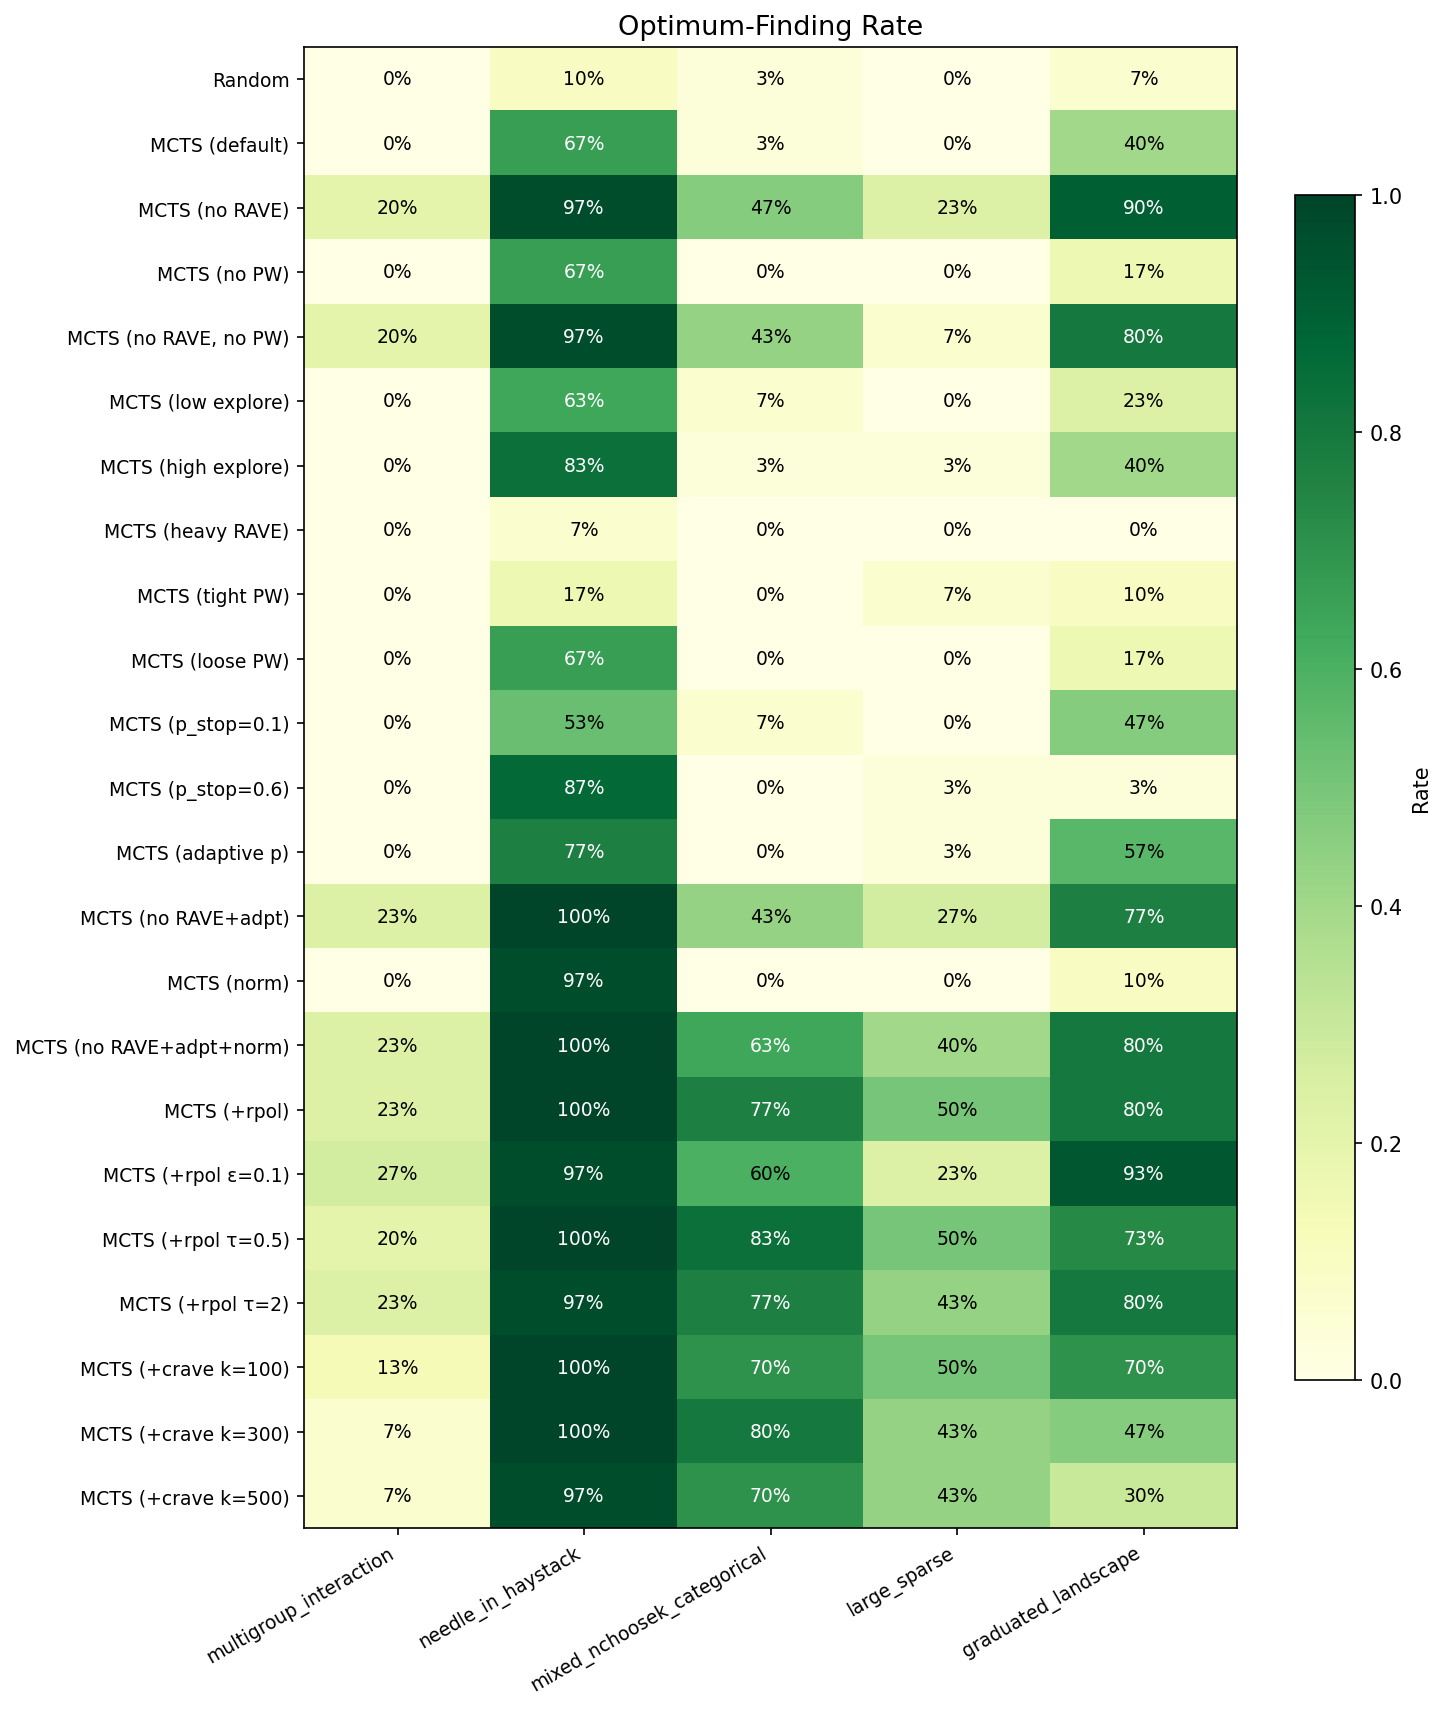
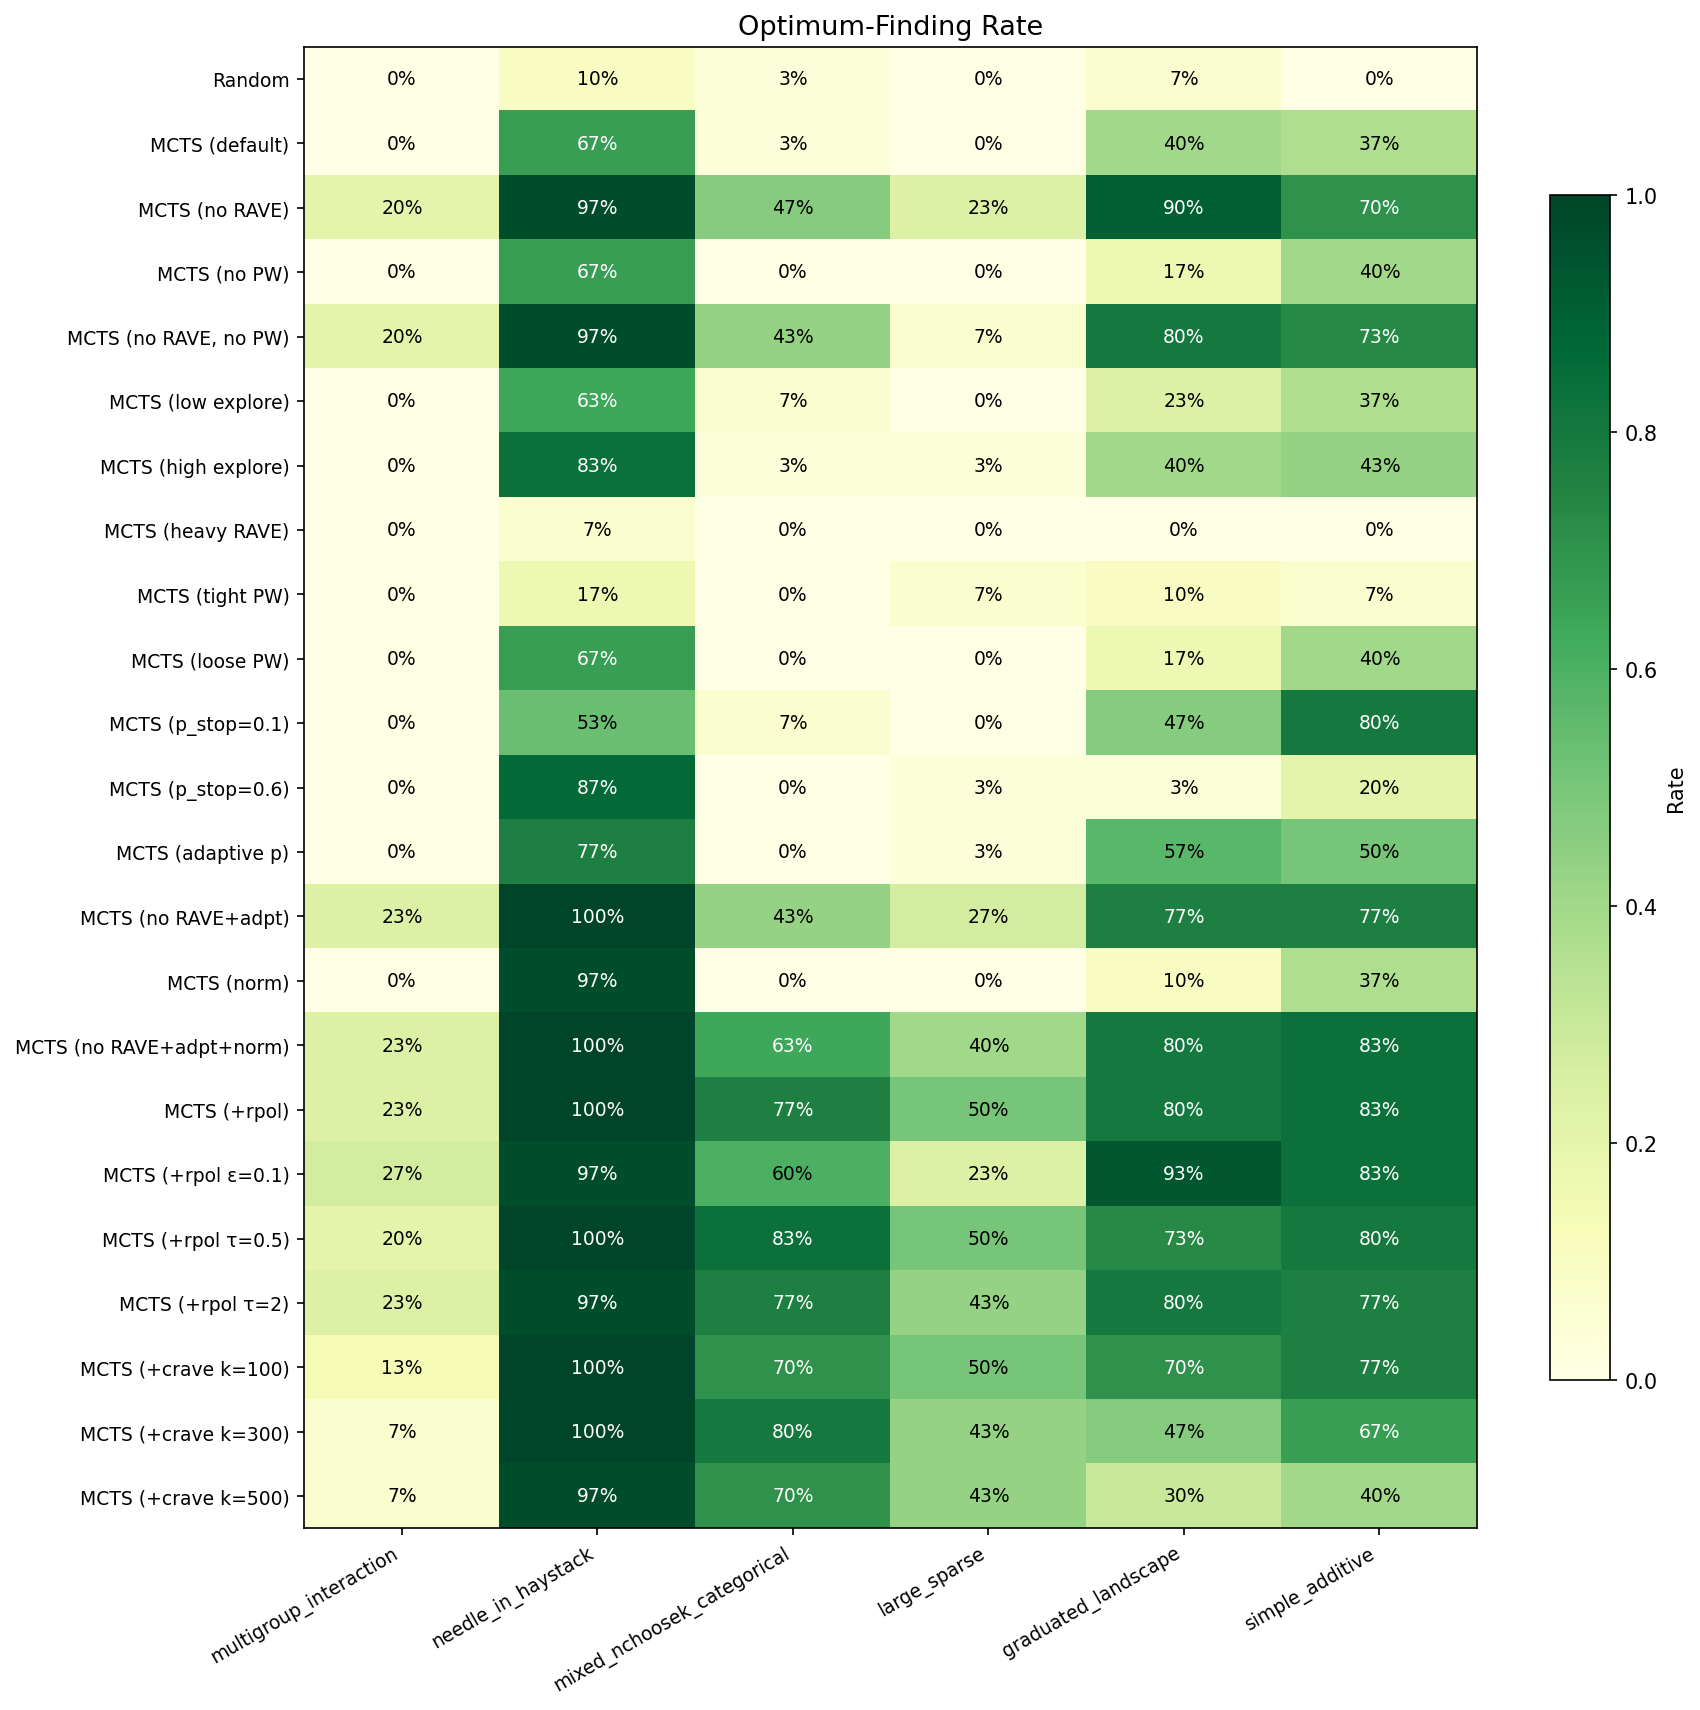
Add simple_additive benchmark problem
Add the simplest possible NChooseK problem: 12 features pick 1-4 where
each feature contributes a fixed positive value with no interactions.
Confirms MCTS handles this basic case reliably — best configs achieve
83% optimum rate (vs 0% for random).

diff --git a/mcts-report/benchmark.py b/mcts-report/benchmark.py
@@ -313,6 +313,53 @@ def make_problem_graduated() -> Problem:
     )
 
 
+# ---------------------------------------------------------------------------
+# Problem 6: Simple additive — independent feature values, no interactions
+# ---------------------------------------------------------------------------
+def make_problem_simple_additive() -> Problem:
+    """12 features, pick 1-4. Each feature contributes a fixed positive value.
+
+    No interactions — reward is purely the sum of selected feature values.
+    Features have varying magnitudes so the algorithm must learn to pick
+    the highest-value features and the right cardinality (exactly 4).
+    This is the simplest possible NChooseK problem.
+    """
+    g = NChooseK(features=list(range(12)), min_count=1, max_count=4)
+    gs = Groups(groups=[g])
+
+    values = {
+        0: 1.0,
+        1: 3.0,
+        2: 8.0,
+        3: 2.0,
+        4: 15.0,
+        5: 5.0,
+        6: 12.0,
+        7: 20.0,
+        8: 4.0,
+        9: 10.0,
+        10: 6.0,
+        11: 18.0,
+    }
+    # Optimal: {4, 6, 7, 11} = 15 + 12 + 20 + 18 = 65
+
+    def reward_fn(feats, _cats):
+        return sum(values[f] for f in feats)
+
+    ss = count_nchoosek_combos(12, 1, 4)
+    optimal_val = sum(sorted(values.values(), reverse=True)[:4])  # top 4
+    return Problem(
+        name="simple_additive",
+        description="12 features pick 1-4, independent positive values (no interactions)",
+        groups=gs,
+        reward_fn=reward_fn,
+        optimal_value=optimal_val,
+        search_space_size=ss,
+        n_iterations=300,
+        n_trials=30,
+    )
+
+
 # ═══════════════════════════════════════════════════════════════════════
 # MCTS Configurations
 # ═══════════════════════════════════════════════════════════════════════
@@ -937,6 +984,7 @@ def main():
         make_problem_mixed(),
         make_problem_large_sparse(),
         make_problem_graduated(),
+        make_problem_simple_additive(),
     ]
 
     for p in problems:

diff --git a/mcts-report/REPORT.md b/mcts-report/REPORT.md
@@ -66,6 +66,7 @@ The `+crave` configs build on `+rpol` and add `context_rave=True` with varying `
 | **mixed_nchoosek_categorical** | 2 NChooseK + 2 Cat | 6 each + 4 vals | 1-3 | ~26,896 | 500 | 30 |
 | **large_sparse** | 4 NChooseK | 10 each | 0-3 | ~960M | 800 | 30 |
 | **graduated_landscape** | 1 NChooseK | 10 | 2-4 | 375 | 300 | 30 |
+| **simple_additive** | 1 NChooseK | 12 | 1-4 | 793 | 300 | 30 |
 
 **Problem descriptions:**
 - **multigroup_interaction**: Optimal requires specific features from all 3 groups with cross-group interaction bonuses (e.g., feature 1 + feature 9 = +12 bonus). Tests whether MCTS can learn multi-group correlations.
@@ -73,6 +74,7 @@ The `+crave` configs build on `+rpol` and add `context_rave=True` with varying `
 - **mixed_nchoosek_categorical**: Feature+categorical interactions (e.g., feature 2 + cat_dim_20=2.0 = +15). Tests handling of mixed discrete types.
 - **large_sparse**: Optimal uses features from only 2 of 4 groups, with a sparsity bonus. The search space is ~960 million. Tests scalability and ability to learn that most groups should be empty.
 - **graduated_landscape**: Smooth quality-based reward (each feature has a fixed quality score). Many near-optimal solutions. Tests exploitation of smooth structure.
+- **simple_additive**: Simplest possible NChooseK problem — each feature contributes a fixed positive value with no interactions. Reward = sum of selected feature values. Tests whether MCTS can identify the highest-value features and the correct cardinality (4).
 
 ---
 
@@ -239,6 +241,26 @@ This is cheap (rollouts are fast) and directly reduces wasted iterations from no
 | MCTS (+crave k=100) | 64.7 | 0.5 | 70% | 109 |
 | MCTS (+crave k=300) | 63.9 | 2.2 | 47% | 72 |
 | MCTS (+crave k=500) | 63.0 | 2.9 | 30% | 53 |
+
+#### simple_additive (search space 793, optimum = 65.0)
+
+| Config | Mean Best | ±Std | Opt Rate | Unique Evals |
+|--------|----------|------|----------|-------------|
+| Random | 57.7 | 3.3 | 0% | 115 |
+| MCTS (default) | 61.8 | 3.7 | 37% | 70 |
+| **MCTS (no RAVE)** | **64.0** | 2.0 | **70%** | 167 |
+| MCTS (heavy RAVE) | 52.4 | 6.0 | 0% | 27 |
+| MCTS (p_stop=0.1) | 64.3 | 1.6 | 80% | 100 |
+| MCTS (adaptive p) | 63.3 | 2.1 | 50% | 80 |
+| MCTS (no RAVE+adpt) | 64.1 | 1.7 | 77% | 181 |
+| MCTS (no RAVE+adpt+norm) | 64.1 | 2.2 | 83% | 184 |
+| **MCTS (+rpol)** | **64.1** | 2.2 | **83%** | 187 |
+| MCTS (+rpol ε=0.1) | 64.4 | 1.4 | 83% | 175 |
+| MCTS (+rpol τ=0.5) | 64.1 | 2.1 | 80% | 187 |
+| MCTS (+rpol τ=2) | 64.3 | 1.4 | 77% | 187 |
+| MCTS (+crave k=100) | 64.2 | 1.5 | 77% | 143 |
+| MCTS (+crave k=300) | 63.7 | 2.4 | 67% | 92 |
+| MCTS (+crave k=500) | 62.8 | 2.6 | 40% | 69 |
 
 ### 3.2 Convergence Curves
 
@@ -439,12 +461,12 @@ The default rollout strategy selects actions uniformly at random (with adaptive 
 
 #### Hyperparameter sensitivity
 
-| Variant | multigroup | needle | mixed | large_sparse | graduated | **Mean opt%** |
-|---------|-----------|--------|-------|-------------|-----------|--------------|
-| **+rpol (ε=0.3, τ=1.0)** | 23% | 100% | 77% | 50% | 80% | **66.0%** |
-| +rpol ε=0.1 | 27% | 97% | 60% | 23% | 93% | 60.0% |
-| +rpol τ=0.5 | 20% | 100% | 83% | 50% | 73% | 65.2% |
-| +rpol τ=2 | 23% | 97% | 77% | 43% | 80% | 64.0% |
+| Variant | multigroup | needle | mixed | large_sparse | graduated | additive | **Mean opt%** |
+|---------|-----------|--------|-------|-------------|-----------|----------|--------------|
+| **+rpol (ε=0.3, τ=1.0)** | 23% | 100% | 77% | 50% | 80% | 83% | **68.8%** |
+| +rpol ε=0.1 | 27% | 97% | 60% | 23% | 93% | 83% | 63.8% |
+| +rpol τ=0.5 | 20% | 100% | 83% | 50% | 73% | 80% | 67.7% |
+| +rpol τ=2 | 23% | 97% | 77% | 43% | 80% | 77% | 66.2% |
 
 - **ε=0.1 is dangerous**: Too little uniform exploration causes collapse on hard problems (23% on large_sparse vs 50% for default). It performs well on easy problems (93% on graduated) but this is misleading.
 - **τ=0.5** is strong on mixed (83%) and large_sparse (50%) but drops on multigroup (20%) and graduated (73%). More aggressive exploitation helps when there are many actions per group but hurts when the search space is smaller.
@@ -474,6 +496,7 @@ Global RAVE was identified as harmful (§4.2) because it uses a single value est
 | mixed_nchoosek_categorical | 135.9 / 77% | 131.9 / 70% | **137.7 / 80%** | 132.0 / 70% |
 | large_sparse | **129.8 / 50%** | 128.8 / 50% | 119.1 / 43% | 118.5 / 43% |
 | graduated_landscape | 64.5 / 80% | **64.7 / 70%** | 63.9 / 47% | 63.0 / 30% |
+| simple_additive | **64.1 / 83%** | 64.2 / 77% | 63.7 / 67% | 62.8 / 40% |
 
 #### Problem-specific analysis
 
@@ -486,6 +509,8 @@ Global RAVE was identified as harmful (§4.2) because it uses a single value est
 **large_sparse**: Context RAVE k=100 matches +rpol at 50%, but k=300 and k=500 drop to 43%. In a 960M search space, context statistics are sparse and higher RAVE weight injects noise.
 
 **graduated_landscape**: Context RAVE degrades with higher k values (70%→47%→30%). This small, smooth problem (375 combinations) doesn't need RAVE guidance — the policy and UCT alone are sufficient, and RAVE adds overhead.
+
+**simple_additive**: The simplest problem (independent additive features, no interactions) confirms MCTS solves this easy case reliably. The best configs (+rpol, +rpol ε=0.1, no RAVE+adpt+norm) all achieve 83% optimum rate. Context RAVE k=100 is close at 77%, while higher k values degrade — the additive structure has no context-dependent feature values, so RAVE signal is pure noise.
 
 #### Key insights
 
